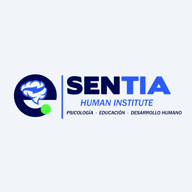
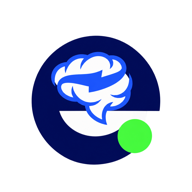
Add files via upload

diff --git a/vip-admin.html b/vip-admin.html
@@ -6,7 +6,7 @@
 <meta name="theme-color" content="#081225">
 <meta name="description" content="SENTIA Admin · Panel de administración">
 <title>SENTIA · Admin</title>
[1 lines of base64/hex data omitted]
+
[1 lines of base64/hex data omitted]
 <link rel="preconnect" href="https://fonts.googleapis.com">
 <link rel="preconnect" href="https://fonts.gstatic.com" crossorigin>
@@ -1037,7 +1037,7 @@ body{
 <meta name="mobile-web-app-capable" content="yes">
 <meta name="apple-mobile-web-app-capable" content="yes">
 <meta name="apple-mobile-web-app-title" content="SENTIA">
-<link rel="icon" type="image/png" sizes="192x192" href="icon-192.png">
+<link rel="icon" type="image/png" href="assets/icon-sentia.png">
 </head>
 <body style="visibility:hidden">
 

diff --git a/vip-panel.html b/vip-panel.html
@@ -6,7 +6,7 @@
 <meta name="theme-color" content="#081225">
 <meta name="description" content="SENTIA Panel VIP · Psicología, educación y medicina general. Cursos, herramientas y certificación.">
 <title>SENTIA · Panel VIP</title>
[1 lines of base64/hex data omitted]
+
 <link rel="apple-touch-icon" href="apple-touch-icon.png">
 <!-- ─── PWA · instalable como app ─── -->
 <meta name="mobile-web-app-capable" content="yes">
@@ -16,7 +16,7 @@
 <link rel="manifest" href="manifest.json">
 <meta name="theme-color" content="#081225">
 <link rel="apple-touch-icon" href="apple-touch-icon.png">
-<link rel="icon" type="image/png" sizes="192x192" href="icon-192.png">
+<link rel="icon" type="image/png" href="assets/icon-sentia.png">
 <link rel="preconnect" href="https://fonts.googleapis.com">
 <link rel="preconnect" href="https://fonts.gstatic.com" crossorigin>
 <link href="https://fonts.googleapis.com/css2?family=Inter:wght@400;500;600;700&family=Plus+Jakarta+Sans:wght@600;700;800&family=JetBrains+Mono:wght@500;600&display=swap" rel="stylesheet">

diff --git a/sw.js b/sw.js
@@ -13,7 +13,7 @@
                                las fuentes de Google siempre van directo a la red.
    ═══════════════════════════════════════════════════════════════════════════ */
 
-const VERSION = 'sentia-v3';
+const VERSION = 'sentia-v4';
 const CACHE_SHELL = VERSION + '-shell';
 const CACHE_RUNTIME = VERSION + '-runtime';
 

diff --git a/verificar.html b/verificar.html
@@ -41,7 +41,7 @@ body{font-family:'Plus Jakarta Sans',system-ui,sans-serif;min-height:100vh;displ
 <meta name="apple-mobile-web-app-capable" content="yes">
 <meta name="apple-mobile-web-app-title" content="SENTIA">
 <link rel="apple-touch-icon" href="apple-touch-icon.png">
-<link rel="icon" type="image/png" sizes="192x192" href="icon-192.png">
+<link rel="icon" type="image/png" href="assets/icon-sentia.png">
 </head>
 <body>
 <div class="card">

diff --git a/offline.html b/offline.html
@@ -6,7 +6,7 @@
 <meta name="theme-color" content="#f7fbfe">
 <title>Sin conexión · SENTIA México</title>
 <link rel="apple-touch-icon" href="apple-touch-icon.png">
-<link rel="icon" type="image/png" sizes="192x192" href="icon-192.png">
+<link rel="icon" type="image/png" href="assets/icon-sentia.png">
 <style>
   *{box-sizing:border-box}
   body{
